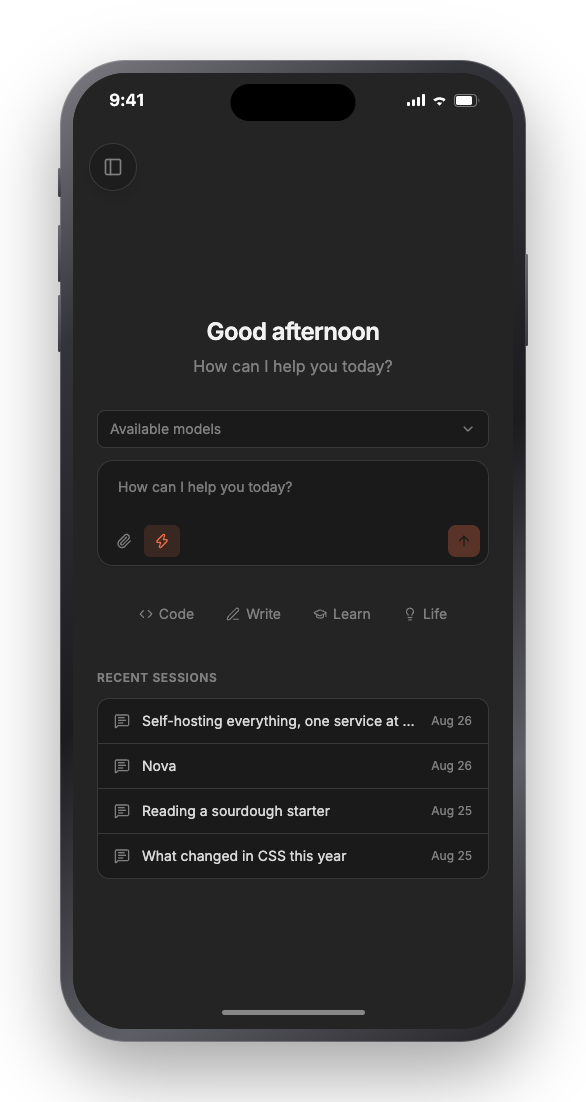
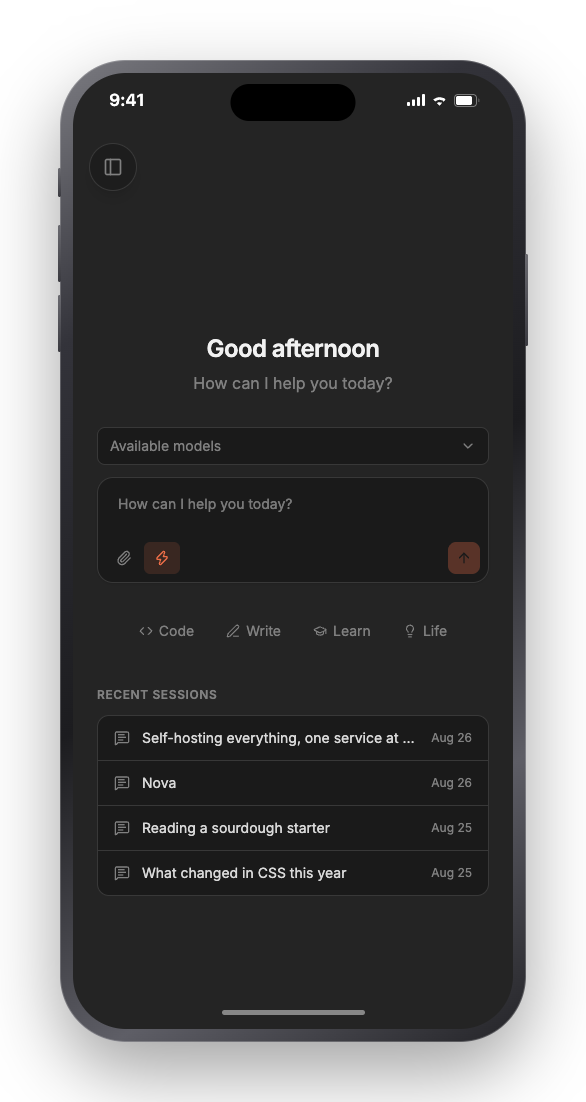
fix: readme mobile screenshots

diff --git a/tests/screenshots.test.ts b/tests/screenshots.test.ts
@@ -47,14 +47,22 @@ const DOCS_OUT = 'docs/src/assets/screenshots';
 /**
  * An iPhone 17 Pro Max's screen, in points.
  *
- * The viewport the app is given is shorter than this: see `SHOT_HEIGHT`. What
- * this is, is the size of the glass, which is what the frame has to match for the
- * picture to be the shape of a phone.
+ * The size of the glass, which the app fills and the frame matches. The system's
+ * share of it is reserved by the app itself, from the insets a shot hands it.
  */
 const MOBILE = { width: 440, height: 956 };
 
-/** What a phone actually leaves the app, once the system has taken its share. */
-const MOBILE_VIEWPORT = { width: 440, height: 956 - 54 - 34 };
+/**
+ * The app gets the whole glass, and reserves the system's share itself.
+ *
+ * Which is what a device does. The insets are handed to it as CSS variables in
+ * `shootPhone`, so it pads its own header and its own tab bar exactly as it would
+ * on the phone, its background runs under both bars, and the frame paints nothing.
+ */
+const MOBILE_VIEWPORT = { width: MOBILE.width, height: MOBILE.height };
+
+/** What an iPhone 17 Pro Max keeps for the clock and the home indicator. */
+const INSETS = { top: 54, bottom: 34 };
 const DESKTOP = { width: 1440, height: 900 };
 
 /** A banner rather than a window: slices of a 1440px viewport are too narrow. */
@@ -463,6 +471,20 @@ function expandSidebar(page: Page) {
 	return page.locator('button[aria-label="Expand sidebar"]:visible').first();
 }
 
+/**
+ * A phone shot: the device's insets, then the picture.
+ *
+ * Injected rather than emulated, because no browser will pretend to have a notch.
+ * The app reads its safe areas from these variables and pads itself, which is the
+ * whole reason the frame no longer has to paint anything behind the clock.
+ */
+async function shootPhone(page: Page, name: string) {
+	await page.addStyleTag({
+		content: `:root{--safe-top:${INSETS.top}px;--safe-bottom:${INSETS.bottom}px}`
+	});
+	await shoot(page, name);
+}
+
 async function shoot(page: Page, name: string) {
 	// Fonts and the wallpaper layer settle a frame or two after the route does,
 	// and a picture taken before they do is a picture of the app loading.
@@ -583,21 +605,20 @@ const TITLE_BAR = 30;
 const PHONE = { bezel: 13, corner: 66, screen: 53, statusBar: 54, homeBar: 34 };
 
 /**
- * The whole screen is 956, furniture included.
+ * The whole screen is 956, furniture included, and so is the capture.
  *
- * Which is why the app is captured shorter than that. The status bar and the home
- * indicator used to be added above and below the capture, so a framed phone came
- * out 1044 tall and was not the shape of any iPhone: the proportions were wrong by
- * exactly the height of the two bars.
+ * Two earlier constructions were wrong in opposite directions. Adding the bars
+ * around the capture made a framed phone 1044 tall, the shape of nothing, and
+ * painted a strip above the app in a flat colour it never used: the band. Cutting
+ * the capture short fixed the shape and kept the band.
  *
- * The alternative would be to capture the full height and lay the bars over it,
- * which is what a device does. It is not available here: the app is photographed
- * in a plain viewport where `env(safe-area-inset-top)` is nought, so its header
- * sits at the very top and an island painted on top would cover it. Giving the
- * capture the height a real device leaves the app costs nothing and is true.
+ * What a device does is neither. The app is given the whole glass and told what
+ * the system is keeping, it pads itself, and its own background runs behind the
+ * clock and the home indicator. That is now what happens here, because the insets
+ * are variables the shot can set rather than an `env()` that is always nought in a
+ * plain viewport.
  */
 const PHONE_SCREEN = { width: MOBILE.width, height: MOBILE.height };
-const SHOT_HEIGHT = PHONE_SCREEN.height - PHONE.statusBar - PHONE.homeBar;
 
 /** A framed window and a framed phone, outer edge to outer edge. */
 const WINDOW_SIZE = { width: DESKTOP.width, height: DESKTOP.height + TITLE_BAR };
@@ -718,21 +739,25 @@ const FRAME_CSS = `
 		transform-origin: top left;
 	}
 	.phone .screen {
+		position: relative;
 		width: var(--screen-w);
 		height: var(--screen-h);
 		border-radius: var(--screen-corner);
 		overflow: hidden;
 		background: var(--top);
 	}
+	/* Over the capture, not above it, and with no background of its own. On a
+	   device the app runs under the status bar and its own colour is what shows
+	   behind the clock; a strip painted here was the band across the top. */
 	.phone .status {
-		position: relative;
+		position: absolute;
+		top: 0; left: 0; right: 0;
 		height: ${PHONE.statusBar}px;
 		display: flex;
 		align-items: center;
 		justify-content: space-between;
 		padding: 0 32px 0 36px;
 		box-sizing: border-box;
-		background: var(--top);
 		color: var(--ink);
 		font: 600 17px/1 -apple-system, "SF Pro Text", system-ui, sans-serif;
 		letter-spacing: .2px;
@@ -749,8 +774,9 @@ const FRAME_CSS = `
 		background: #000;
 	}
 	.phone .home {
+		position: absolute;
+		bottom: 0; left: 0; right: 0;
 		height: ${PHONE.homeBar}px;
-		background: var(--bottom);
 		display: flex;
 		align-items: center;
 		justify-content: center;
@@ -825,7 +851,7 @@ function phoneHtml(src: string, e: Edges, place = `top:${PAD}px;left:${PAD}px`) 
 	const size = chassis(
 		PHONE_SCREEN.width,
 		PHONE_SCREEN.height,
-		SHOT_HEIGHT,
+		PHONE_SCREEN.height,
 		PHONE.bezel,
 		PHONE.screen
 	);
@@ -1001,20 +1027,20 @@ test.describe('screenshots', () => {
 
 		await page.goto('/sessions/ab12cd');
 		await expect(page.getByText('Is self-hosting worth it')).toBeVisible();
-		await shoot(page, 'mobile_conversation');
+		await shootPhone(page, 'mobile_conversation');
 
 		await expandSidebar(page).click();
 		await expect(page.getByText('Reading a sourdough starter')).toBeVisible();
-		await shoot(page, 'mobile_sidebar');
+		await shootPhone(page, 'mobile_sidebar');
 
 		await configure(page, { themeMode: 'dark' });
 		await page.goto('/sessions');
 		await expect(page.locator('html')).toHaveAttribute('data-color-theme', 'dark');
-		await shoot(page, 'mobile_home');
+		await shootPhone(page, 'mobile_home');
 
 		await page.goto('/library');
 		await expect(page.getByRole('heading', { name: 'Library' })).toBeVisible();
-		await shoot(page, 'mobile_library');
+		await shootPhone(page, 'mobile_library');
 	});
 
 	/**
@@ -1035,12 +1061,12 @@ test.describe('screenshots', () => {
 		// The orb draws from a frame loop and the card's light drifts on its own
 		// clock, so this waits for a shape rather than for a paint.
 		await page.waitForTimeout(900);
-		await shoot(page, 'phone_home');
+		await shootPhone(page, 'phone_home');
 
 		await page.goto('/m/sessions/ab12cd');
 		await expect(page.getByText('Is self-hosting worth it')).toBeVisible();
 		await page.waitForTimeout(600);
-		await shoot(page, 'phone_conversation');
+		await shootPhone(page, 'phone_conversation');
 
 		// Opened on somebody, so the screen has a face, a name and a greeting rather
 		// than an orb alone on an empty page.
@@ -1050,7 +1076,7 @@ test.describe('screenshots', () => {
 		// content has no spaces in it and no text query will ever match it.
 		await expect(page.getByRole('link', { name: /Nova/ })).toBeVisible();
 		await page.waitForTimeout(900);
-		await shoot(page, 'phone_voice');
+		await shootPhone(page, 'phone_voice');
 	});
 
 	test('desktop', async ({ page }) => {

diff --git a/src/lib/components/Modal.svelte b/src/lib/components/Modal.svelte
@@ -39,13 +39,13 @@
 		     height in viewport units can disagree with it, which on iOS is exactly the
 		     kind of disagreement that leaves a band along the bottom. -->
 		<Dialog.Content
-			class="modal-content bg-shade-1 sm:modal-panel fixed inset-0 z-50 flex w-screen overflow-clip max-sm:pt-[env(safe-area-inset-top)] max-sm:pb-[env(safe-area-inset-bottom)] sm:m-auto sm:h-[600px] sm:max-h-[85vh] sm:w-[90vw] sm:max-w-3xl sm:rounded-xl"
+			class="modal-content bg-shade-1 sm:modal-panel fixed inset-0 z-50 flex w-screen overflow-clip max-sm:pt-[var(--safe-top)] max-sm:pb-[var(--safe-bottom)] sm:m-auto sm:h-[600px] sm:max-h-[85vh] sm:w-[90vw] sm:max-w-3xl sm:rounded-xl"
 		>
 			{#if closeButton}
 				<!-- An absolutely positioned box is laid out against the padding box, which
 				     the padding above does not move, so this one pays its own way. -->
 				<Dialog.Close
-					class="text-muted hover:bg-shade-2 hover:text-active absolute top-3 right-3 z-10 rounded-md p-1.5 transition-colors max-sm:top-[calc(0.75rem+env(safe-area-inset-top))]"
+					class="text-muted hover:bg-shade-2 hover:text-active absolute top-3 right-3 z-10 rounded-md p-1.5 transition-colors max-sm:top-[calc(0.75rem+var(--safe-top))]"
 					aria-label="Close"
 				>
 					<X class="h-4 w-4" />

diff --git a/src/lib/components/SidebarBrand.svelte b/src/lib/components/SidebarBrand.svelte
@@ -19,7 +19,7 @@
 <!-- The top edge of the column, and the densest of its materials along with the
      footer: edges read as edges by being more solid than what they enclose. -->
 <div
-	class="surface-chrome flex h-[var(--app-header-h)] shrink-0 border-b max-lg:h-[calc(var(--app-header-h)+env(safe-area-inset-top))]"
+	class="surface-chrome flex h-[var(--app-header-h)] shrink-0 border-b max-lg:h-[calc(var(--app-header-h)+var(--safe-top))]"
 >
 	<!-- The block paints out to the frame's edge; its contents stop at the width the
 	     column is going to. Two jobs that used to be one and had to be separated: laid
@@ -27,7 +27,7 @@
 	     is still narrowing; laid out at the frame's width, it re-wraps itself sixty
 	     times a second on the way there. -->
 	<div
-		class="flex h-full w-full shrink-0 items-center px-4 max-lg:w-[var(--drawer-w)] max-lg:pt-[env(safe-area-inset-top)] {rail
+		class="flex h-full w-full shrink-0 items-center px-4 max-lg:w-[var(--drawer-w)] max-lg:pt-[var(--safe-top)] {rail
 			? 'lg:w-16'
 			: 'lg:w-96'}"
 	>

diff --git a/src/lib/components/CollapsibleSidebar.svelte b/src/lib/components/CollapsibleSidebar.svelte
@@ -114,7 +114,7 @@
      the page slides aside to uncover it and the sidebar itself never moves.
      Desktop: an in-flow rail/full column driven by the persisted sidebarExpanded. -->
 <nav
-	class="fixed inset-y-0 left-0 h-full w-full shrink-0 transition-[width] duration-300 ease-out motion-reduce:transition-none max-lg:pl-[env(safe-area-inset-left)] lg:relative lg:z-30 lg:mr-4 lg:max-w-none lg:translate-x-0
+	class="fixed inset-y-0 left-0 h-full w-full shrink-0 transition-[width] duration-300 ease-out motion-reduce:transition-none max-lg:pl-[var(--safe-left)] lg:relative lg:z-30 lg:mr-4 lg:max-w-none lg:translate-x-0
 		{$settingsStore.sidebarExpanded ? 'lg:w-96' : 'lg:w-16'}"
 	aria-label="Main navigation"
 	data-testid="sidebar"

diff --git a/src/lib/components/Header.svelte b/src/lib/components/Header.svelte
@@ -88,7 +88,7 @@
 	     bar and its height grows by as much, rather than the whole thing being pushed
 	     down and leaving a strip of something else above it. -->
 	<header
-		class="surface-chrome flex h-[var(--app-header-h)] shrink-0 items-center justify-between border-b px-3 text-xs max-lg:h-[calc(var(--app-header-h)+env(safe-area-inset-top))] max-lg:pt-[env(safe-area-inset-top)]"
+		class="surface-chrome flex h-[var(--app-header-h)] shrink-0 items-center justify-between border-b px-3 text-xs max-lg:h-[calc(var(--app-header-h)+var(--safe-top))] max-lg:pt-[var(--safe-top)]"
 	>
 		{@render contents()}
 	</header>

diff --git a/src/lib/components/SidebarFooter.svelte b/src/lib/components/SidebarFooter.svelte
@@ -79,7 +79,7 @@
 <div class="surface-chrome flex shrink-0 border-t">
 	<!-- Full width for the material, fixed width for the layout: see `SidebarBrand`. -->
 	<div
-		class="w-full shrink-0 p-2 max-lg:w-[var(--drawer-w)] max-lg:pb-[max(0.5rem,env(safe-area-inset-bottom))] {rail
+		class="w-full shrink-0 p-2 max-lg:w-[var(--drawer-w)] max-lg:pb-[max(0.5rem,var(--safe-bottom))] {rail
 			? 'lg:w-16'
 			: 'lg:w-96'}"
 	>

diff --git a/src/routes/m/sessions/[id]/+page.svelte b/src/routes/m/sessions/[id]/+page.svelte
@@ -104,7 +104,7 @@
 
 		<!-- Inside the sheet, above the tab bar, in the flow: it reserves its own
 		     room, so the thread scrolls to a foot it can actually reach. -->
-		<div class="shrink-0 px-3 pb-[calc(env(safe-area-inset-bottom)+5.5rem)]">
+		<div class="shrink-0 px-3 pb-[calc(var(--safe-bottom)+5.5rem)]">
 			<Composer
 				bind:editor={chat.editor}
 				onSubmit={chat.submit}

diff --git a/src/routes/sessions/[id]/Prompt.svelte b/src/routes/sessions/[id]/Prompt.svelte
@@ -409,7 +409,7 @@
 </script>
 
 <div
-	class="prompt-editor pointer-events-auto w-full px-4 pt-2 pb-[max(1rem,env(safe-area-inset-bottom))] lg:px-6 lg:pb-4 xl:px-8 {editor.isExpanded
+	class="prompt-editor pointer-events-auto w-full px-4 pt-2 pb-[max(1rem,var(--safe-bottom))] lg:px-6 lg:pb-4 xl:px-8 {editor.isExpanded
 		? 'prompt-editor--fullscreen'
 		: ''}"
 >

diff --git a/src/routes/m/+layout.svelte b/src/routes/m/+layout.svelte
@@ -43,7 +43,7 @@
 
 	<!-- The safe area is the page's business, not the tab bar's: the content
 	     scrolls under the notch, and only the bar below reserves room. -->
-	<main class="min-h-0 flex-1 overflow-y-auto pt-[env(safe-area-inset-top)]">
+	<main class="min-h-0 flex-1 overflow-y-auto pt-[var(--safe-top)]">
 		{@render children()}
 	</main>
 

diff --git a/src/routes/m/TabBar.svelte b/src/routes/m/TabBar.svelte
@@ -32,7 +32,7 @@
 </script>
 
 <nav
-	class="pointer-events-none fixed inset-x-0 bottom-0 z-30 flex px-4 pb-[max(1rem,env(safe-area-inset-bottom))]"
+	class="pointer-events-none fixed inset-x-0 bottom-0 z-30 flex px-4 pb-[max(1rem,var(--safe-bottom))]"
 	aria-label={$LL.mobileTabChats()}
 >
 	<!-- Two objects, not one, and the left one never moves.
